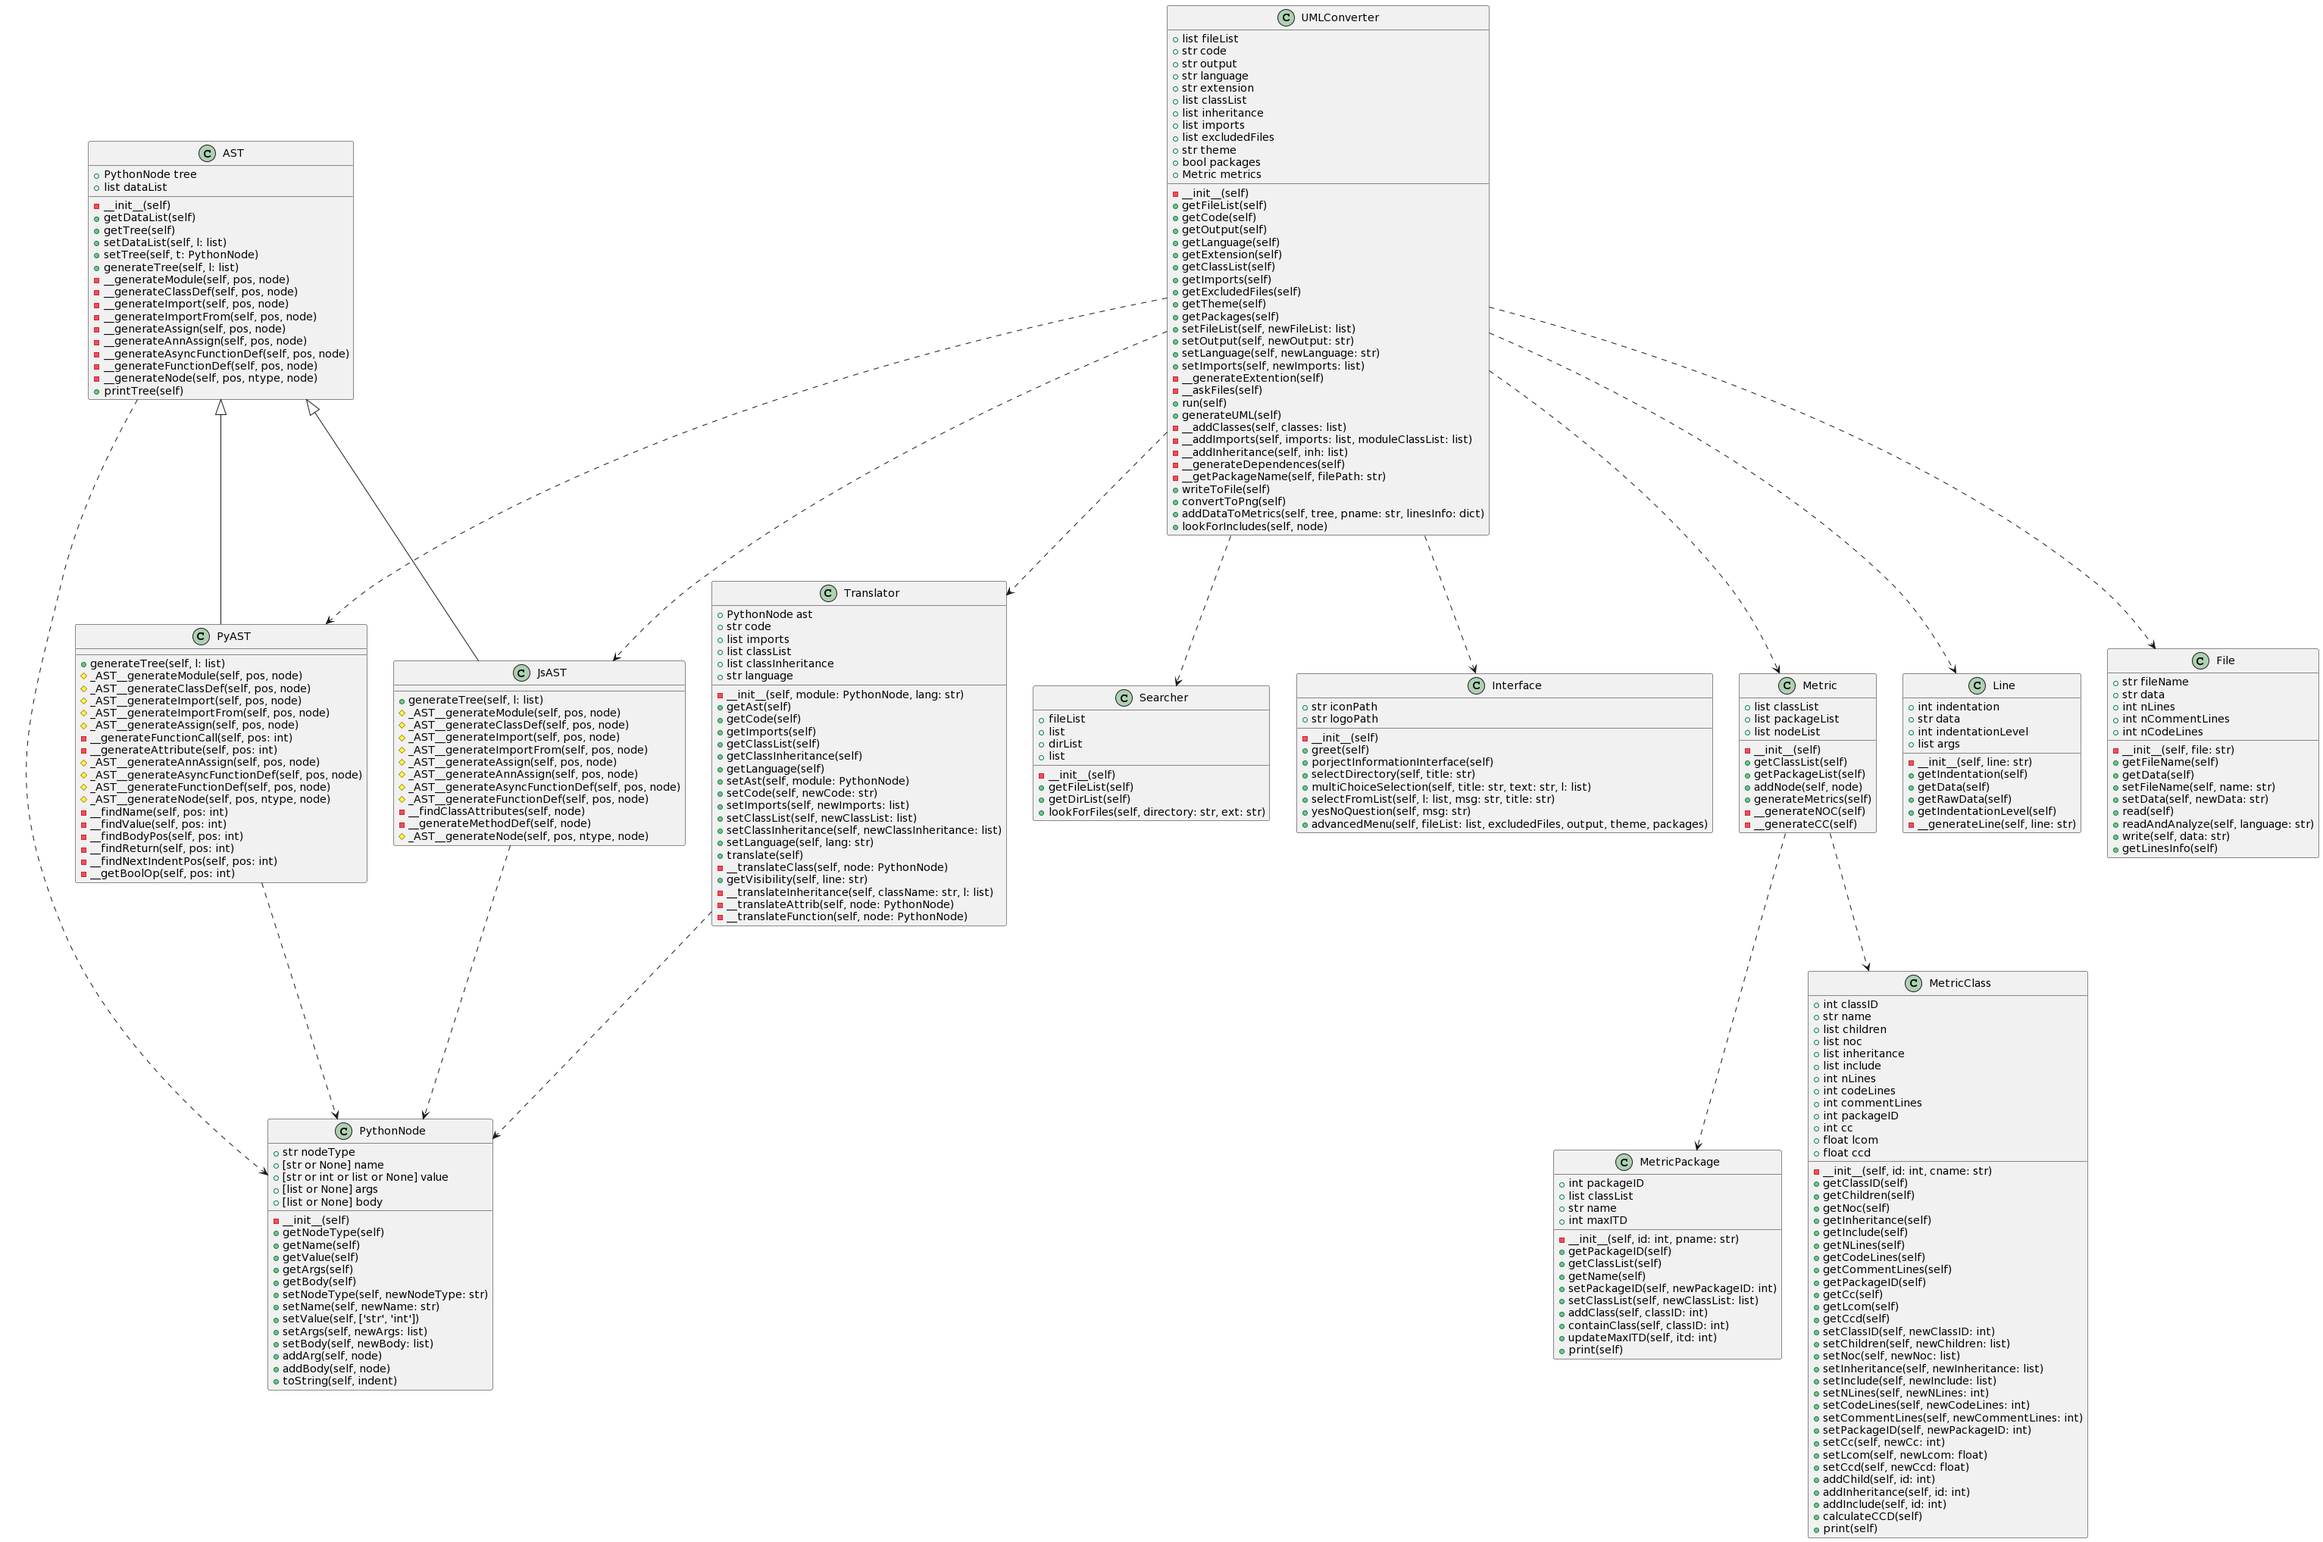
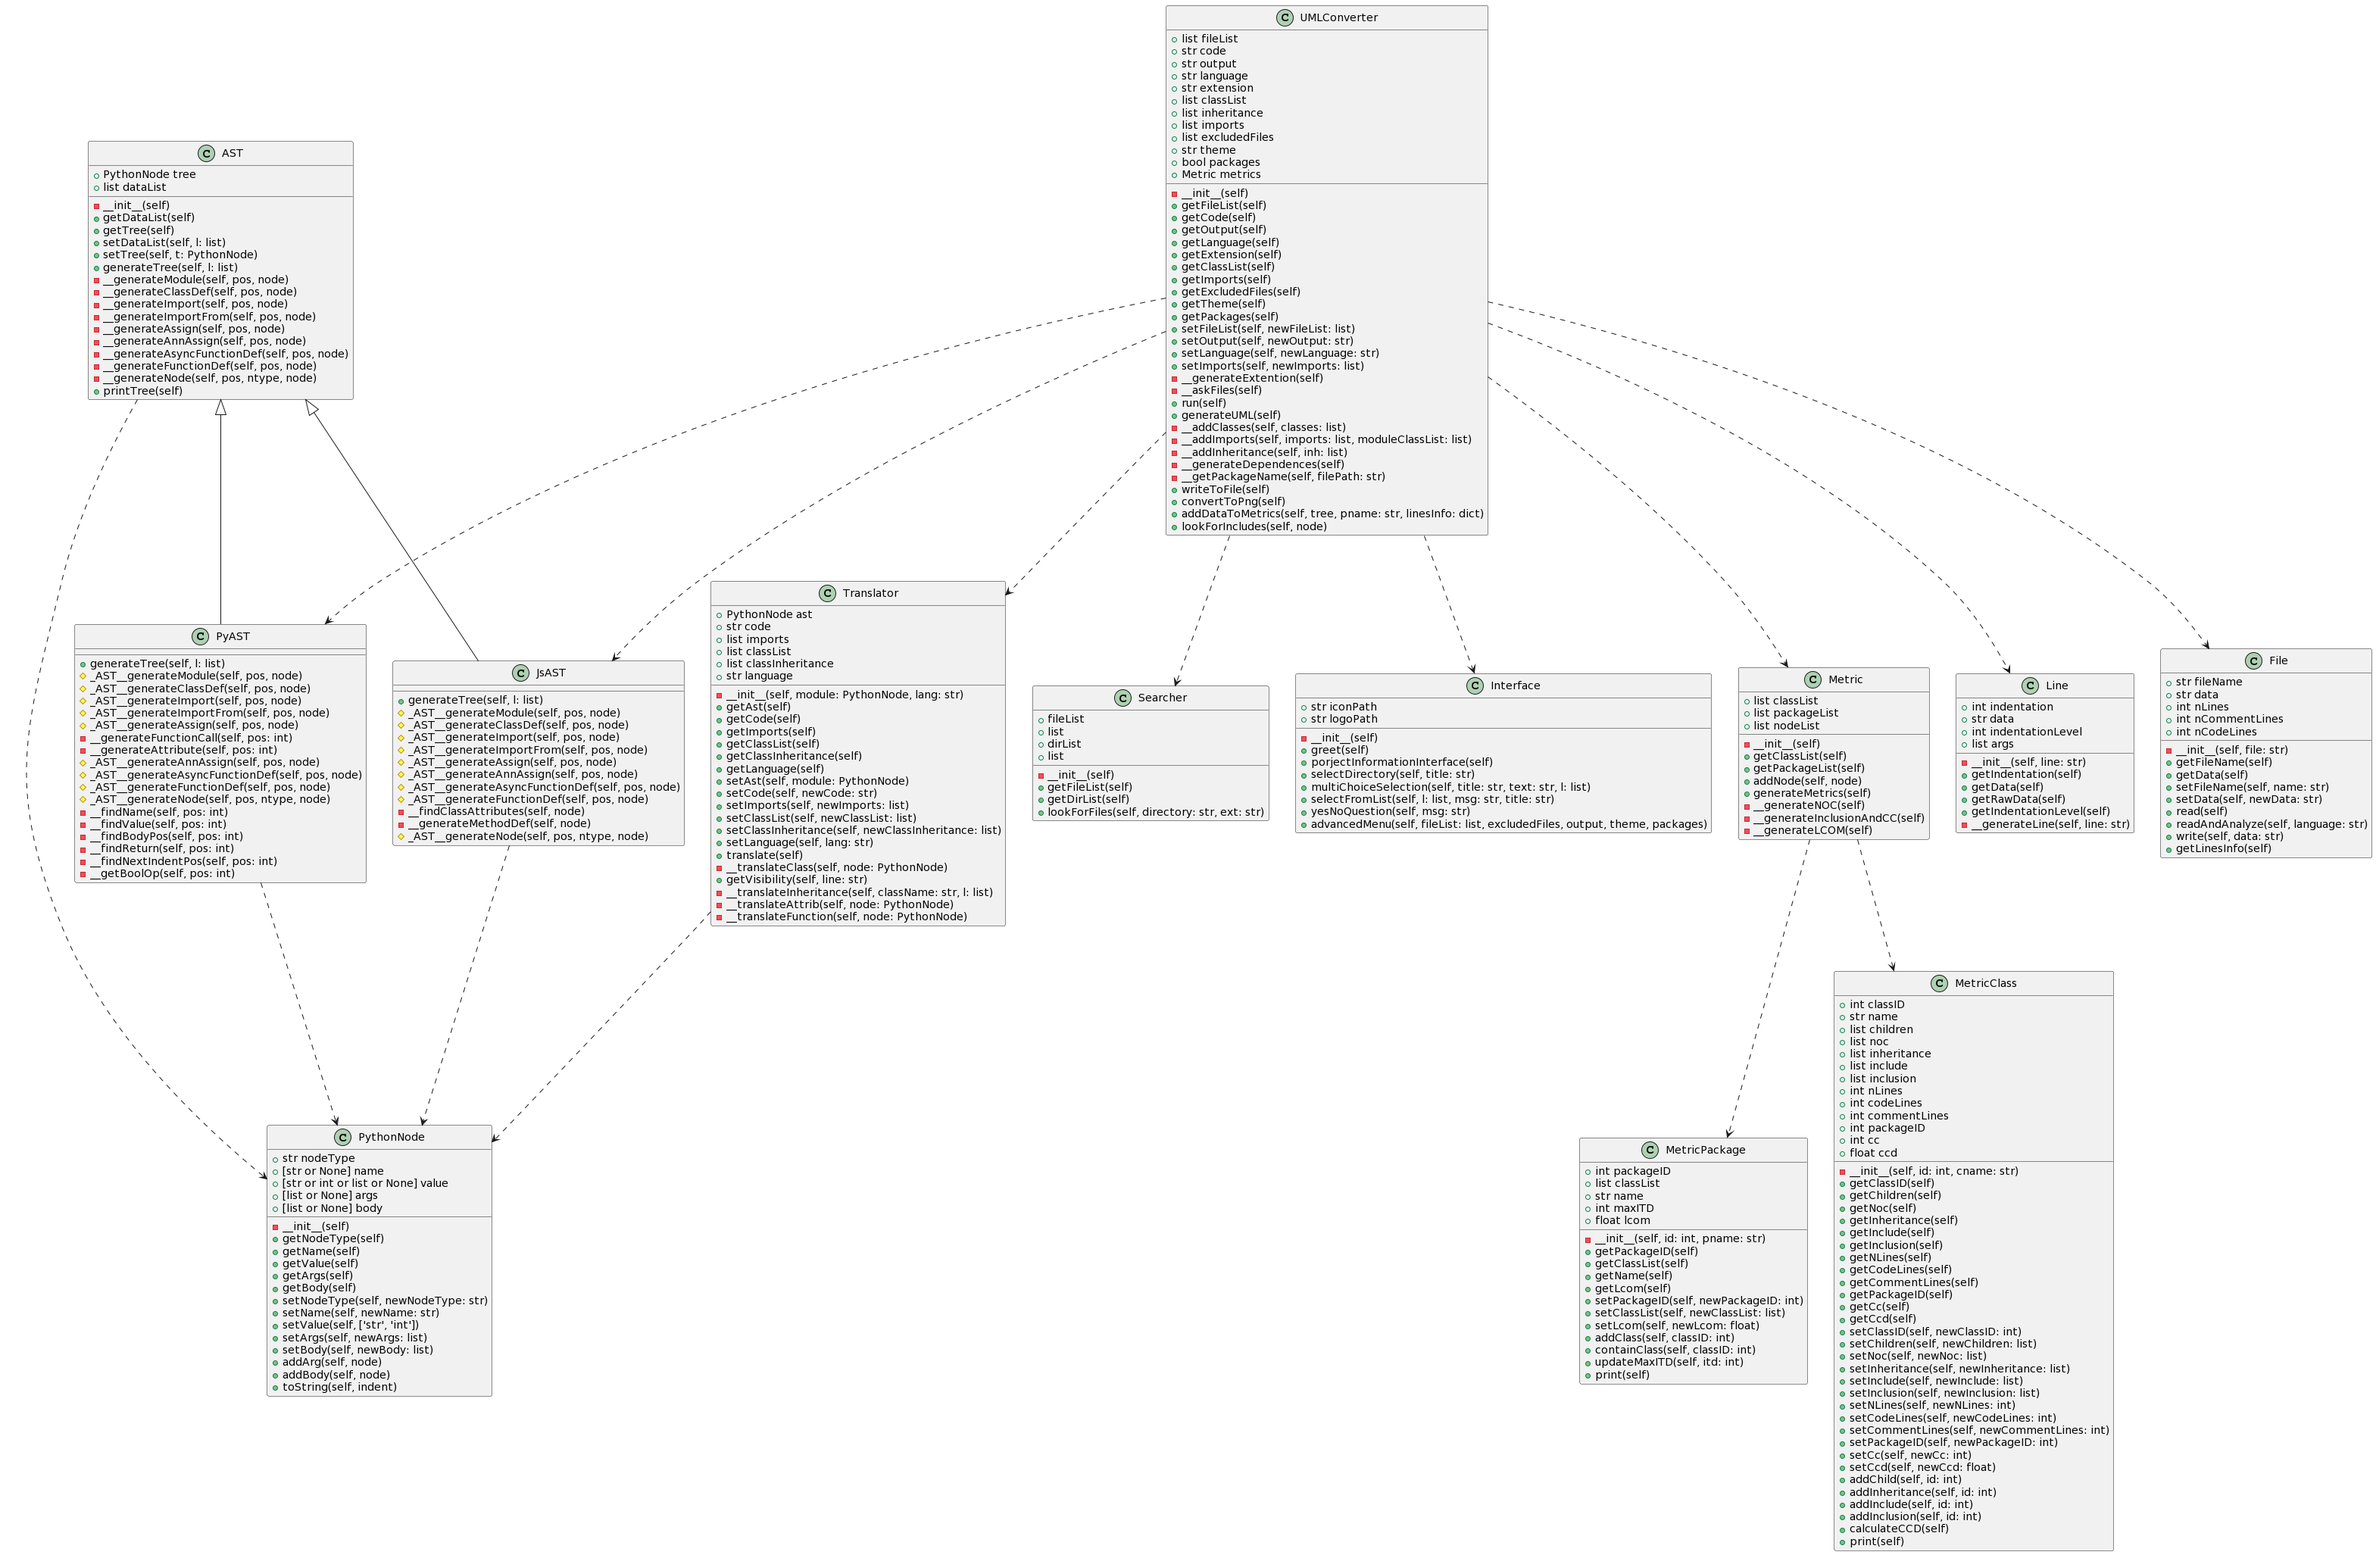
LCOM Metrics (Lack of cohesion in methods)

diff --git a/app/modules/metric_module/metricClass.py b/app/modules/metric_module/metricClass.py
@@ -7,7 +7,7 @@
 #   @Email:              adrianepi@gmail.com
 #   @GitHub:             https://github.com/AdrianEpi
 #   @Last Modified by:   Adrian Epifanio
-#   @Last Modified time: 2023-02-08 11:26:45
+#   @Last Modified time: 2023-02-08 11:47:31
 #   @Description:        ...
 
 
@@ -19,28 +19,29 @@ class MetricClass:
 	noc: list 					# List of children  grandchildren... classIDs
 	inheritance: list 			# List o classes classIDs of which this class is inherited of
 	include: list 				# List of classIDs from another class where this class is included
+	inclusion: list 			# List of classIDs included in this class
 	nLines: int 				# Ammount of lines in the class file
 	codeLines: int 				# Ammount of code lines (no empty ones or {})
 	commentLines: int 			# Ammount of commented lines
 	packageID: int 				# Package name
 	cc: int 					# Class coupling (ACO)
-	lcom: float					# Lack of cohesion in methods
 	ccd: float 					# Code comments density
 
 	def __init__(self, id: int, cname: str):
 		self.classID = id 
+		self.name = cname
 		self.children = [] 
 		self.noc = [] 
 		self.inheritance = [] 
 		self.include = [] 
+		self.inclusion = []
 		self.nLines = 0
 		self.codeLines = 0 
 		self.commentLines = 0 
 		self.packageID = 0 
 		self.cc = 0 
-		self.lcom = 0.0 
 		self.ccd = 0.0 
-		self.name = cname
+		
 
 	
 	def getClassID(self) -> int:
@@ -62,6 +63,10 @@ class MetricClass:
 	def getInclude(self) -> list:
 		return 	self.include
 
+
+	def getInclusion(self) -> list:
+		return 	self.inclusion
+
 	
 	def getNLines(self) -> int:
 		return self.nLines
@@ -81,10 +86,6 @@ class MetricClass:
 	
 	def getCc(self) -> int:
 		return 	self.cc
-
-	
-	def getLcom(self) -> float:
-		return 	self.lcom
 
 	
 	def getCcd(self) -> float:
@@ -109,6 +110,10 @@ class MetricClass:
 	
 	def setInclude(self, newInclude:list):
 		self.include = newInclude
+
+
+	def setInclusion(self, newInclusion:list):
+		self.inclusion = newInclusion
 		
 	
 	def setNLines(self, newNLines:int):
@@ -131,10 +136,6 @@ class MetricClass:
 		self.cc = newCc
 		
 	
-	def setLcom(self, newLcom:float):
-		self.lcom = newLcom
-		
-	
 	def setCcd(self, newCcd:float):
 		self.ccd = newCcd
 
@@ -152,6 +153,11 @@ class MetricClass:
 	def addInclude(self, id: int):
 		if id not in self.include:
 			self.include.append(id)
+
+
+	def addInclusion(self, id: int):
+		if id not in self.inclusion:
+			self.inclusion.append(id)
 
 
 	def calculateCCD(self) -> int:

diff --git a/app/modules/metric_module/metric.py b/app/modules/metric_module/metric.py
@@ -7,7 +7,7 @@
 #   @Email:              adrianepi@gmail.com
 #   @GitHub:             https://github.com/AdrianEpi
 #   @Last Modified by:   Adrian Epifanio
-#   @Last Modified time: 2023-02-08 11:20:13
+#   @Last Modified time: 2023-02-08 12:00:18
 #   @Description:        ...
 
 from app.modules.metric_module.metricClass import MetricClass
@@ -85,7 +85,8 @@ class Metric:
 					self.classList[className.index(j)].addInclude(i)
 
 		self.__generateNOC()
-		self.__generateCC()
+		self.__generateInclusionAndCC()
+		self.__generateLCOM()
 
 
 
@@ -114,13 +115,37 @@ class Metric:
 			self.classList[i].setNoc(noc)
 
 
-	def __generateCC(self):
+	def __generateInclusionAndCC(self):
 		for i in self.classList:
 			tmpCC = 0
+			id = i.getClassID()
 			for j in self.classList:
-				if (i.getClassID() != j.getClassID()) and (i.getClassID() in j.getInclude()):
+				if (id != j.getClassID()) and (id in j.getInclude()):
 					tmpCC += 1
-			self.classList[i.getClassID()].setCc(tmpCC)
+					self.classList[id].addInclusion(j.getClassID())
+			self.classList[id].setCc(tmpCC)
 
+
+	def __generateLCOM(self):
+		for i in self.packageList:
+			lcom = 0.0
+			ce = []
+			ca = []
+			for j in i.getClassList():
+				# print('entra')
+				# print(i.getClassInclusion())
+				for k in self.classList[j].getInclusion():
+					if (self.classList[k].getClassID() not in i.getClassList()) and (self.classList[k].getClassID() not in ce):
+						ce.append(self.classList[k].getClassID())
+						
+				for k in self.classList[j].getInclude():
+					if (self.classList[k].getClassID() not in i.getClassList()) and (self.classList[k].getClassID() not in ca):
+						ca.append(self.classList[k].getClassID())
+						
+			ca = len(ca)
+			ce = len(ce)
+			print('package' + str(i.getPackageName()) + ' ce: ' + str(ce) + " ca: " + str(ca))
+			lcom = float(ce / (ca + ce))
+			self.packageList[i.getPackageID()].setLcom(lcom)
 
 

diff --git a/app/modules/metric_module/metricPackage.py b/app/modules/metric_module/metricPackage.py
@@ -7,7 +7,7 @@
 #   @Email:              adrianepi@gmail.com
 #   @GitHub:             https://github.com/AdrianEpi
 #   @Last Modified by:   Adrian Epifanio
-#   @Last Modified time: 2023-02-06 14:37:08
+#   @Last Modified time: 2023-02-08 11:43:42
 #   @Description:        ...
 
 
@@ -16,13 +16,16 @@ class MetricPackage:
 	packageID: int
 	classList: list
 	name: str
-	maxITD: int # Maximum inheritance tree depth
+	maxITD: int 		# Maximum inheritance tree depth
+	lcom: float			# Lack of cohesion in methods
+
 
 	def __init__(self, id: int, pname: str):
 		self.packageID = id
 		self.classList = []
 		self.name = pname
 		self.maxITD = 0
+		self.lcom = 0.0
 
 
 	def getPackageID(self) -> int:
@@ -36,6 +39,10 @@ class MetricPackage:
 	def getName(self) -> str:
 		return self.name
 
+
+	def getLcom(self) -> float:
+		return 	self.lcom
+
 		
 	def setPackageID(self, newPackageID: int):
 		self.packageID = newPackageID
@@ -43,6 +50,10 @@ class MetricPackage:
 
 	def setClassList(self, newClassList: list):
 		self.classList = newClassList
+
+
+	def setLcom(self, newLcom:float):
+		self.lcom = newLcom
 
 
 	def addClass(self, classID: int):
@@ -66,5 +77,6 @@ class MetricPackage:
 		s += "\n\n\n\t PackageID " + str(self.packageID)
 		s += "\n\t\tName: " + self.name
 		s += "\n\t\tClass List: " + str(self.classList)
-		s += "\n\t\tMaximum ITD: " + str(self.maxITD)
+		s += "\n\t\tMaximum ITD (Inheritance Tree Depth): " + str(self.maxITD)
+		s += "\n\t\tLCOM (Lack of Cohesion): " + str(self.lcom)
 		print(s)

diff --git a/app/modules/uml_module/UMLConverter.py b/app/modules/uml_module/UMLConverter.py
@@ -7,7 +7,7 @@
 #   @Email:              adrianepi@gmail.com
 #   @GitHub:             https://github.com/AdrianEpi
 #   @Last Modified by:   Adrian Epifanio
-#   @Last Modified time: 2023-02-08 10:53:18
+#   @Last Modified time: 2023-02-08 11:57:23
 #   @Description:        This file describes the UMLConverteer main class
 
 from app.modules.uml_module.translator import Translator
@@ -255,8 +255,8 @@ class UMLConverter:
 		self.writeToFile()
 		self.convertToPng()
 		self.metrics.generateMetrics()
-		for i in self.metrics.getClassList():
-			i.print()
+		# for i in self.metrics.getClassList():
+		# 	i.print()
 		for i in self.metrics.getPackageList():
 			i.print()
 
